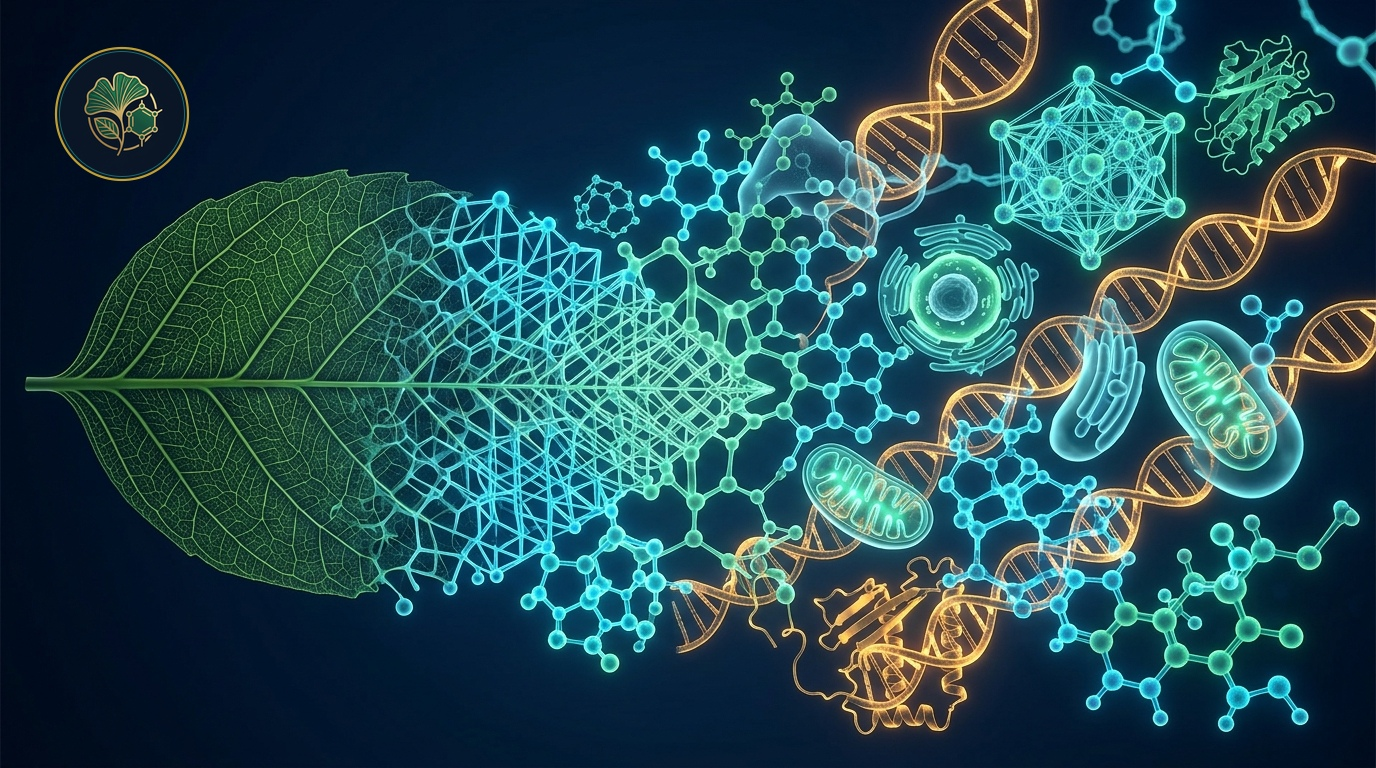
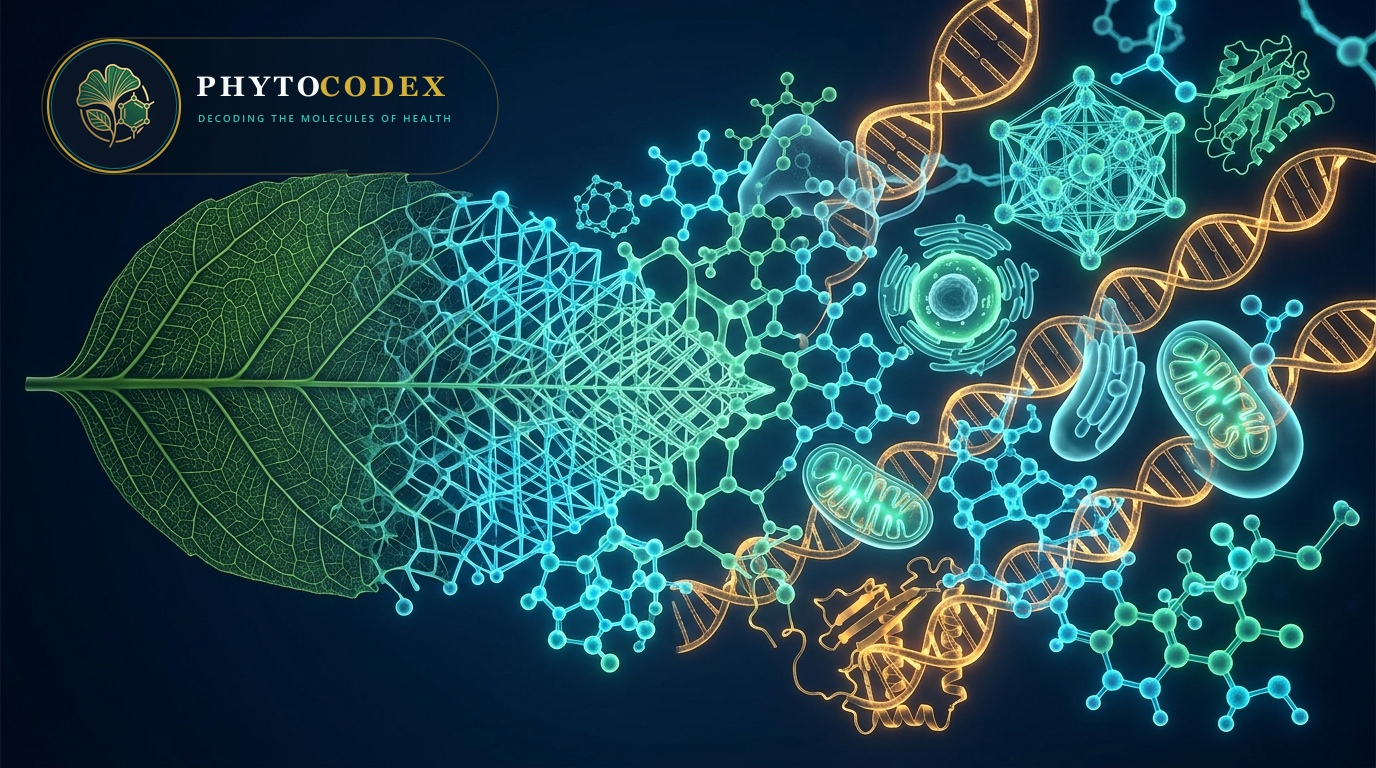
feat(seo): update og thumbnail and slogan DECODING THE MOLECULES OF HEALTH

Changed region(s): [[0.0312, 0.0312, 0.3438, 0.25], [0.2188, 0.2188, 0.25, 0.25]]

diff --git a/src/app/layout.tsx b/src/app/layout.tsx
@@ -34,11 +34,27 @@ export const metadata: Metadata = {
     apple: "/images/phytocodex-emblem.jpg",
   },
   title: {
-    default: "Phytocodex · Dr. Xuan Chien Hoang",
+    default: "Phytocodex · DECODING THE MOLECULES OF HEALTH",
     template: "%s · Phytocodex",
   },
   description:
-    "Decoding the molecules of health — where Eastern botanicals meet European science. Evidence-based biomedical monograph by Dr. Xuan Chien Hoang (Dr. rer. nat. in Molecular Biology, Univ. of Hamburg).",
+    "DECODING THE MOLECULES OF HEALTH — Evidence-based biomedical intelligence where Eastern botanicals meet European molecular pharmacology, metabolomics, and circadian science.",
+  keywords: [
+    "Phytocodex",
+    "Decoding the Molecules of Health",
+    "Evidence-Based Phytotherapy",
+    "Molecular Pharmacology",
+    "Botanical Medicine",
+    "Metabolomics",
+    "Circadian Biology",
+    "Nutritional Biochemistry",
+    "Bioavailability Optimization",
+    "Phytochemical Intelligence",
+    "Translational Medicine",
+    "Natural Compounds Synergy",
+    "Dr. Xuan Chien Hoang",
+    "TS. Hoàng Xuân Chiến"
+  ],
   alternates: {
     types: {
       "application/rss+xml": "https://www.phyto-codex.org/feed.xml",
@@ -47,24 +63,24 @@ export const metadata: Metadata = {
   openGraph: {
     type: "website",
     siteName: "Phytocodex",
-    title: "Phytocodex · Dr. Xuan Chien Hoang",
+    title: "Phytocodex · DECODING THE MOLECULES OF HEALTH",
     description:
-      "Decoding the molecules of health — where Eastern botanicals meet European science. Evidence-based molecular pharmacology and pharmacokinetic simulation engines.",
+      "Decoding the molecules of health — where Eastern botanicals meet European molecular pharmacology, metabolomics, and evidence-based science.",
     locale: "en_US",
     images: [
       {
         url: "https://www.phyto-codex.org/images/phytocodex-banner.jpg",
         width: 1200,
         height: 675,
-        alt: "Phytocodex — Decoding the Molecules of Health",
+        alt: "Phytocodex — DECODING THE MOLECULES OF HEALTH",
       },
     ],
   },
   twitter: {
     card: "summary_large_image",
-    title: "Phytocodex · Dr. Xuan Chien Hoang",
+    title: "Phytocodex · DECODING THE MOLECULES OF HEALTH",
     description:
-      "Decoding the molecules of health — where Eastern botanicals meet European science.",
+      "DECODING THE MOLECULES OF HEALTH — Evidence-based botanical medicine, molecular pharmacology, and clinical metabolomics.",
     images: [
       "https://www.phyto-codex.org/images/phytocodex-banner.jpg",
     ],
